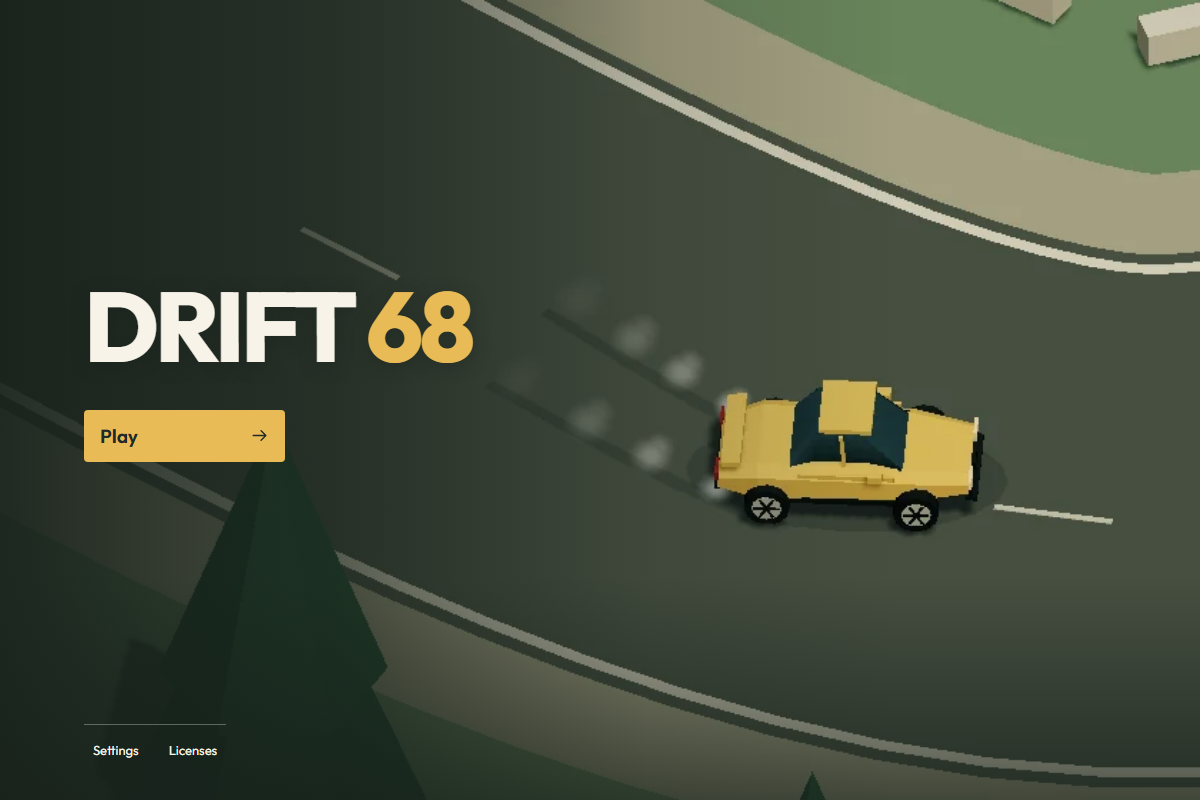
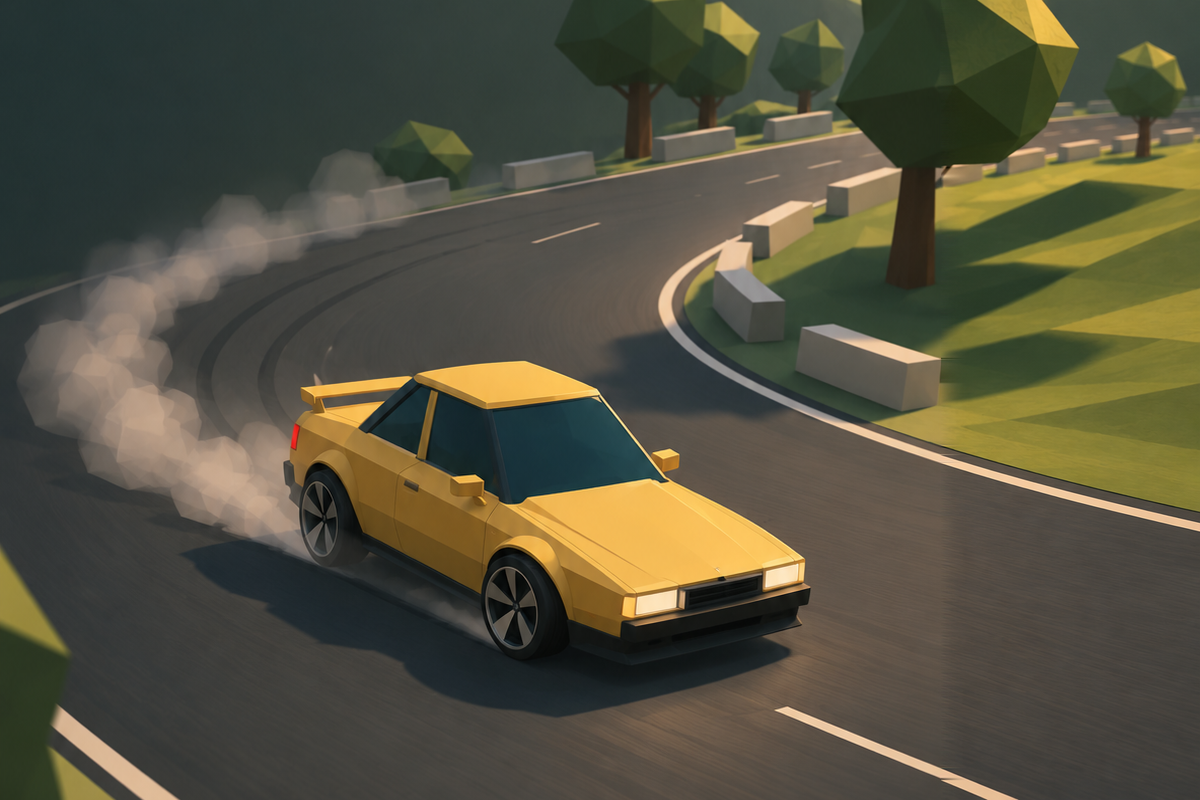
Use approved Mountain Drift title artwork

diff --git a/src/game/ui/styles.css b/src/game/ui/styles.css
@@ -617,10 +617,10 @@
   }
 }
 
-@media (max-width: 720px) and (min-height: 320px) and (max-aspect-ratio: 4/5) {
+@media (max-width: 720px) and (min-height: 320px) and (max-aspect-ratio: 9/10) {
   #game-root:is([data-screen=idle], [data-screen=title]) #scene {
     background-image: url('/drift-cover-portrait.webp');
-    background-position: 57% center;
+    background-position: 57% bottom;
     transform-origin: 57% 54%;
   }
 }

diff --git a/docs/RELEASE_VERIFICATION.md b/docs/RELEASE_VERIFICATION.md
@@ -4,15 +4,9 @@
 
 The release repository is [aswin-panengal/drift-68](https://github.com/aswin-panengal/drift-68). Use archives and checksums built after the repository rename for release verification.
 
-The title shows the yellow Rearwind 84 drifting through an Alpine Pass switchback. Both WebP crops come from one frame rendered with the in-game Close follow camera. The capture script starts the car at road speed on the approach, applies handbrake and steering inputs to the normal simulation, and captures the resulting smoke and skid marks. The title plays a short camera transition and honors reduced motion. The two cover images total about 32 KB.
+The title backdrops use the supplied [Mountain Drift artwork](../artwork/Mountain%20Drift_%20Golden%20Switchback.png). The desktop and narrow layouts use crops of the source at 940 x 560 and 480 x 680. The 1200 x 800 README artwork keeps the original car and scene in a cropped source panel and extends the right edge with ImageGen.
 
-With a local Vite dev server running, regenerate both crops with:
-
-```sh
-python scripts/capture-cover.py http://127.0.0.1:5173
-```
-
-Run the browser suite to capture `test-results/browser/title.png` for the README and Marketplace package. GPU backends and encoder versions can affect capture bytes.
+The earlier 1.1.1 title artwork was captured from the game renderer. The browser and workbench evidence below was recorded with that artwork.
 
 Local archives and SHA-256 checksums are under `release/1.1.1/`. Two local pack runs produced identical `drift-68-1.1.1.vsix` and `drift-68-web-1.1.1.zip` archives.
 

diff --git a/README.md b/README.md
@@ -2,7 +2,7 @@
 
 **Code. Drift. Relax.** A small 3D drifting game in VS Code. Take a lap along the coast, find your line in the mountains, or unwind beneath autumn trees. Solo works offline.
 
-![Drift 68 title screen with the Rearwind 84 drifting on Alpine Pass](docs/screenshots/title.png)
+![Yellow Rearwind 84 drifting through a mountain switchback](docs/screenshots/title.png)
 
 Choose from four cars and three closed circuits. Chase a personal best in Lap Challenge, take an untimed Zen Drive, or invite a friend to an online 1v1. Procedural low-poly scenes, synthesized audio, and local records. Drift 68 has no accounts or telemetry, loads its assets locally, and does not read your source files.
 
